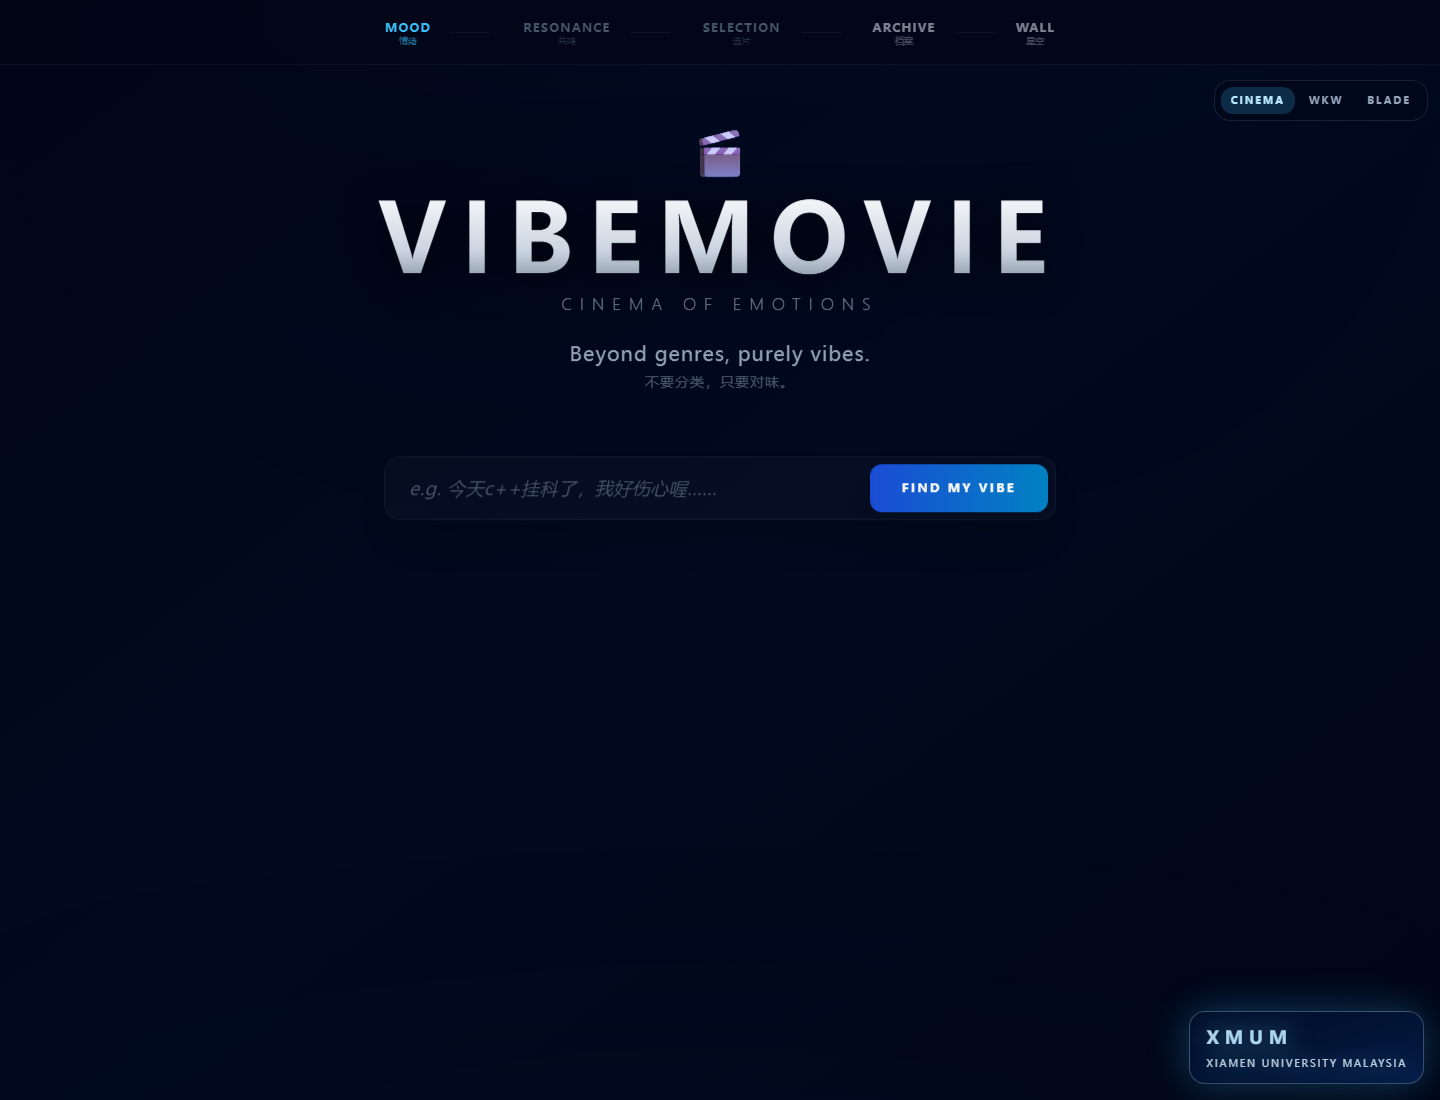
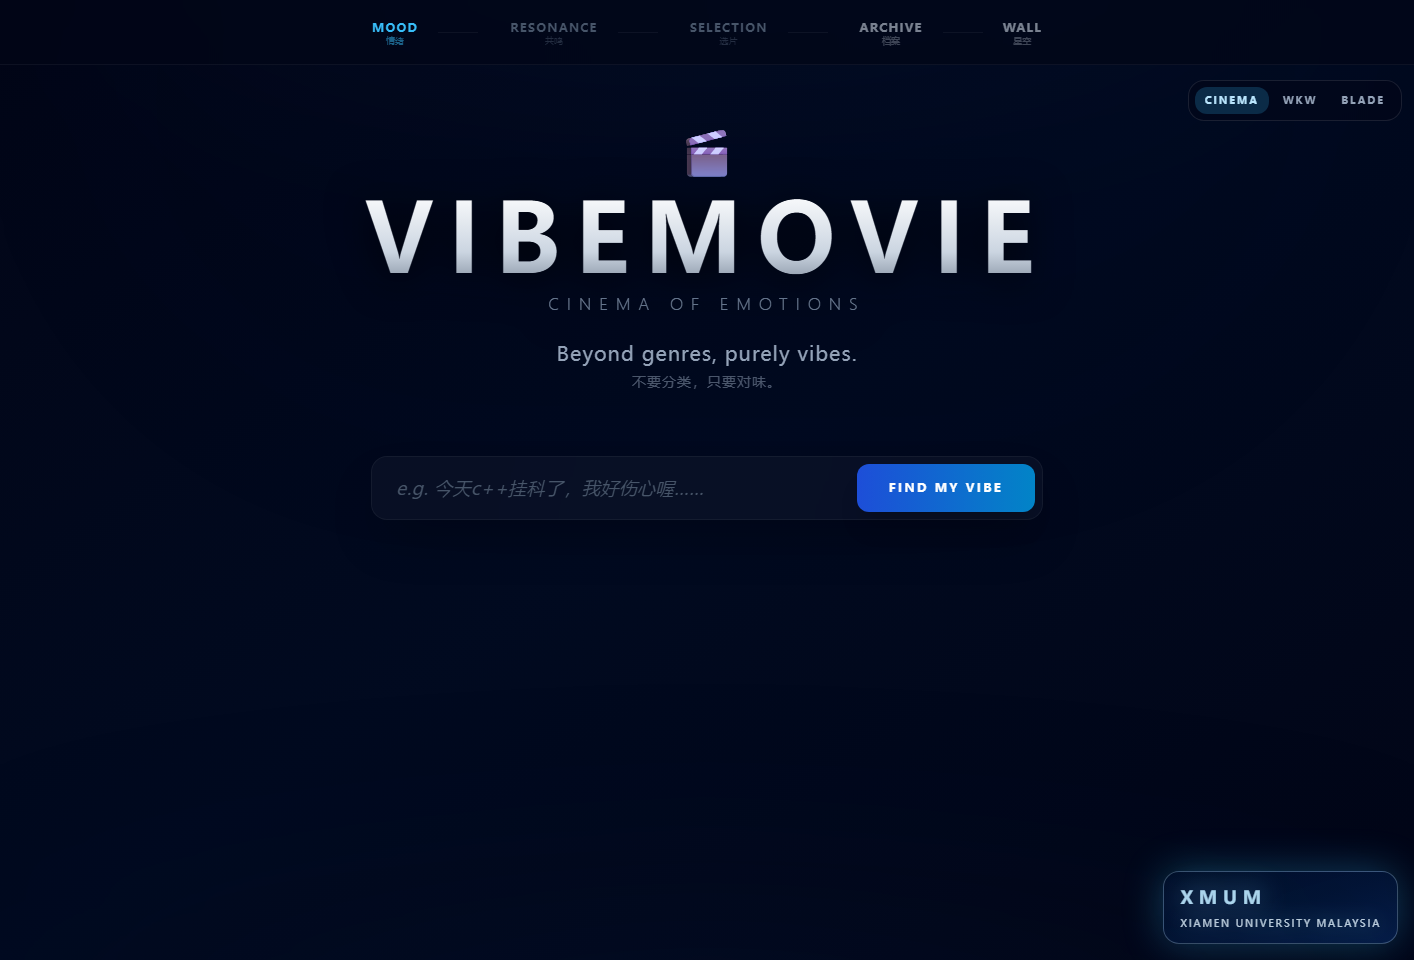
docs: add full product screenshots

diff --git a/docs/github-showcase.md b/docs/github-showcase.md
@@ -1,0 +1,50 @@
+# GitHub Showcase Checklist
+
+Use this checklist before sharing the repository with a mentor, recruiter, or interviewer.
+
+## Repository About Section
+
+Recommended description:
+
+```txt
+AI-assisted mood-based movie recommendation app built with Next.js, DeepSeek, TMDB, Prisma, and PostgreSQL.
+```
+
+Website:
+
+```txt
+https://vibemovie.top
+```
+
+Recommended topics:
+
+```txt
+nextjs
+typescript
+react
+tailwindcss
+movie-recommendation
+ai-app
+deepseek
+tmdb
+prisma
+postgresql
+vibecoding
+```
+
+## Portfolio Talking Points
+
+- The product starts from emotional context instead of genre filters.
+- DeepSeek is used for reflective questions and recommendation reasoning.
+- TMDB is used to enrich AI output with real movie metadata and posters.
+- Prisma and PostgreSQL persist the user's emotional movie archive.
+- The UI is designed as a cinematic interaction rather than a plain form.
+- The repository includes docs, screenshots, setup instructions, and architecture notes.
+
+## Remaining Engineering Improvements
+
+- Split the large homepage file into smaller components.
+- Add fallback recommendation data for API failures.
+- Add tests for API response validation.
+- Review remaining dependency audit warnings before production-scale use.
+- Add a short demo video or GIF for the README.

diff --git a/README.md b/README.md
@@ -76,15 +76,15 @@ flowchart TB
 
 ```txt
 .
-├── docs/                  # Project documentation, diagrams, and screenshots
-├── prisma/                # Prisma schema and migration files
-├── public/                # Static visual assets
-├── src/
-│   ├── app/               # Next.js pages and API routes
-│   └── lib/               # Shared server-side utilities
-├── .env.example           # Required environment variables
-├── package.json
-└── README.md
++-- docs/                  # Project documentation, diagrams, and screenshots
++-- prisma/                # Prisma schema and migration files
++-- public/                # Static visual assets
++-- src/
+|   +-- app/               # Next.js pages and API routes
+|   +-- lib/               # Shared server-side utilities
++-- .env.example           # Required environment variables
++-- package.json
++-- README.md
 ```
 
 ## API Overview
@@ -145,16 +145,23 @@ npx prisma migrate deploy
 
 ## Screenshots
 
-### Home
+The screenshots below show the full user journey from mood input to recommendation, archive, public wall, and mobile layout.
 
-![VibeMovie home screen](docs/screenshots/home.png)
+| Home | Emotional Resonance |
+| --- | --- |
+| ![VibeMovie home screen](docs/screenshots/home.png) | ![VibeMovie resonance screen](docs/screenshots/resonance.png) |
 
-Recommended additional screenshots before final portfolio sharing:
+| AI Questions | Movie Recommendations |
+| --- | --- |
+| ![AI-generated reflection questions](docs/screenshots/questions.png) | ![Personalized movie recommendation cards](docs/screenshots/recommendations.png) |
 
-- `questions.png` - AI-generated reflection questions
-- `recommendations.png` - movie recommendation cards
-- `archive.png` - saved mood records
-- `wall.png` - public emotion wall
+| Selected Result | Archive |
+| --- | --- |
+| ![Selected movie result screen](docs/screenshots/poster.png) | ![Saved mood archive](docs/screenshots/archive.png) |
+
+| Public Wall | Mobile Layout |
+| --- | --- |
+| ![Public emotion wall](docs/screenshots/wall.png) | ![Responsive mobile homepage](docs/screenshots/mobile.png) |
 
 ## Development Approach
 